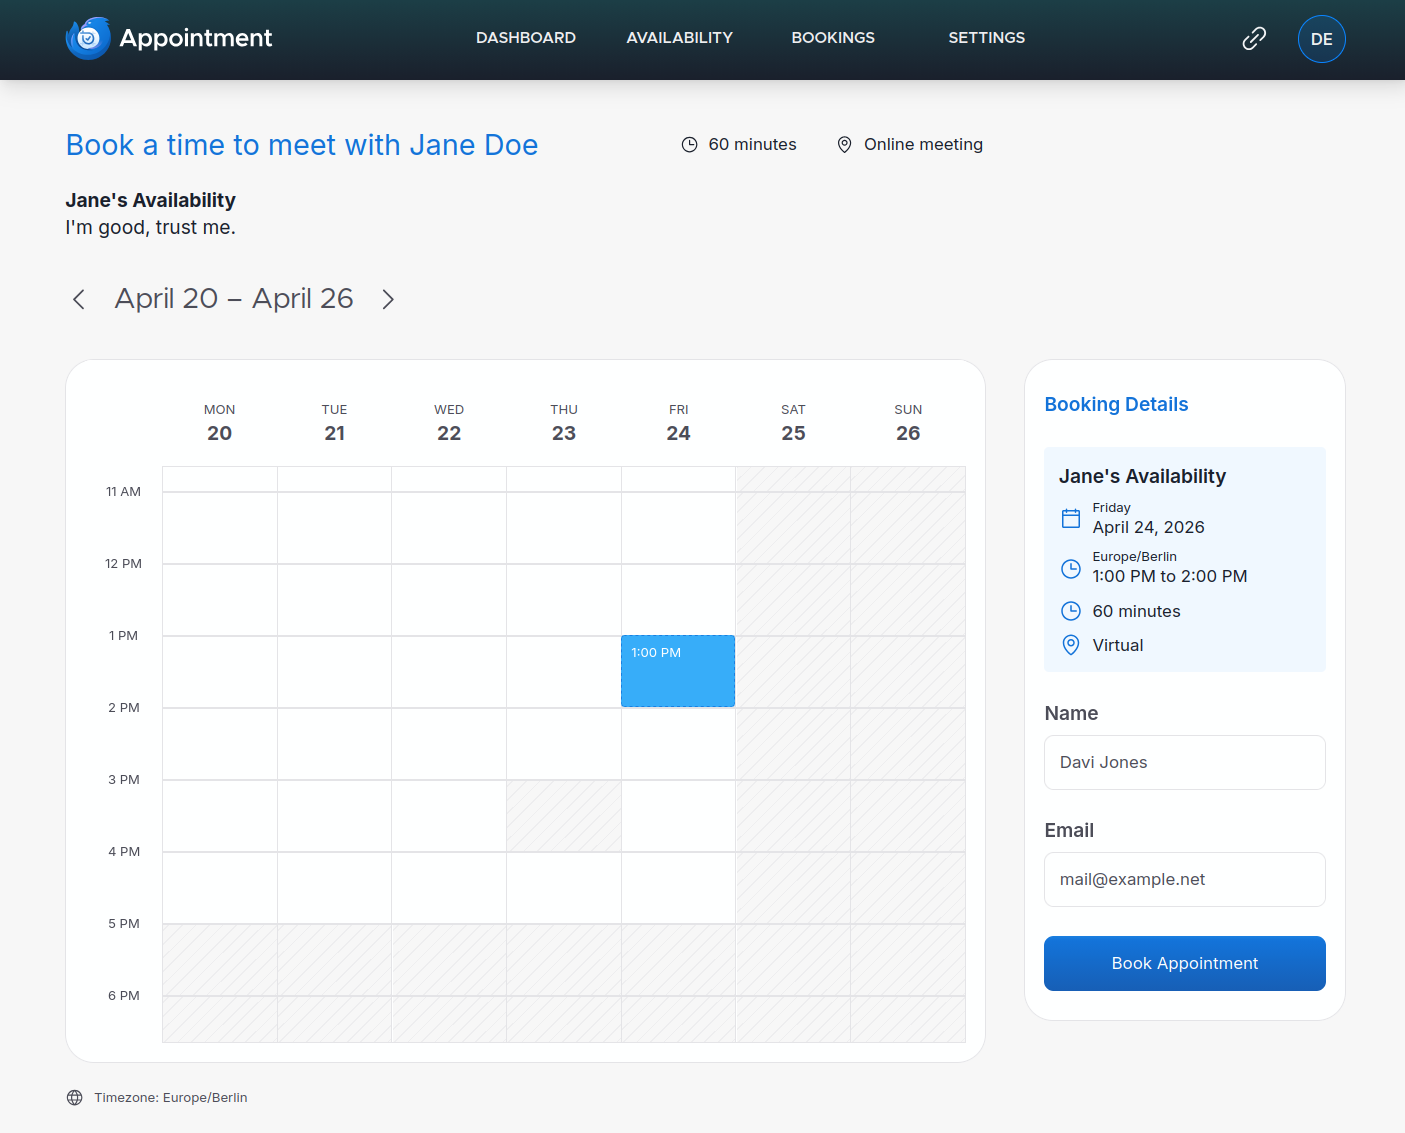
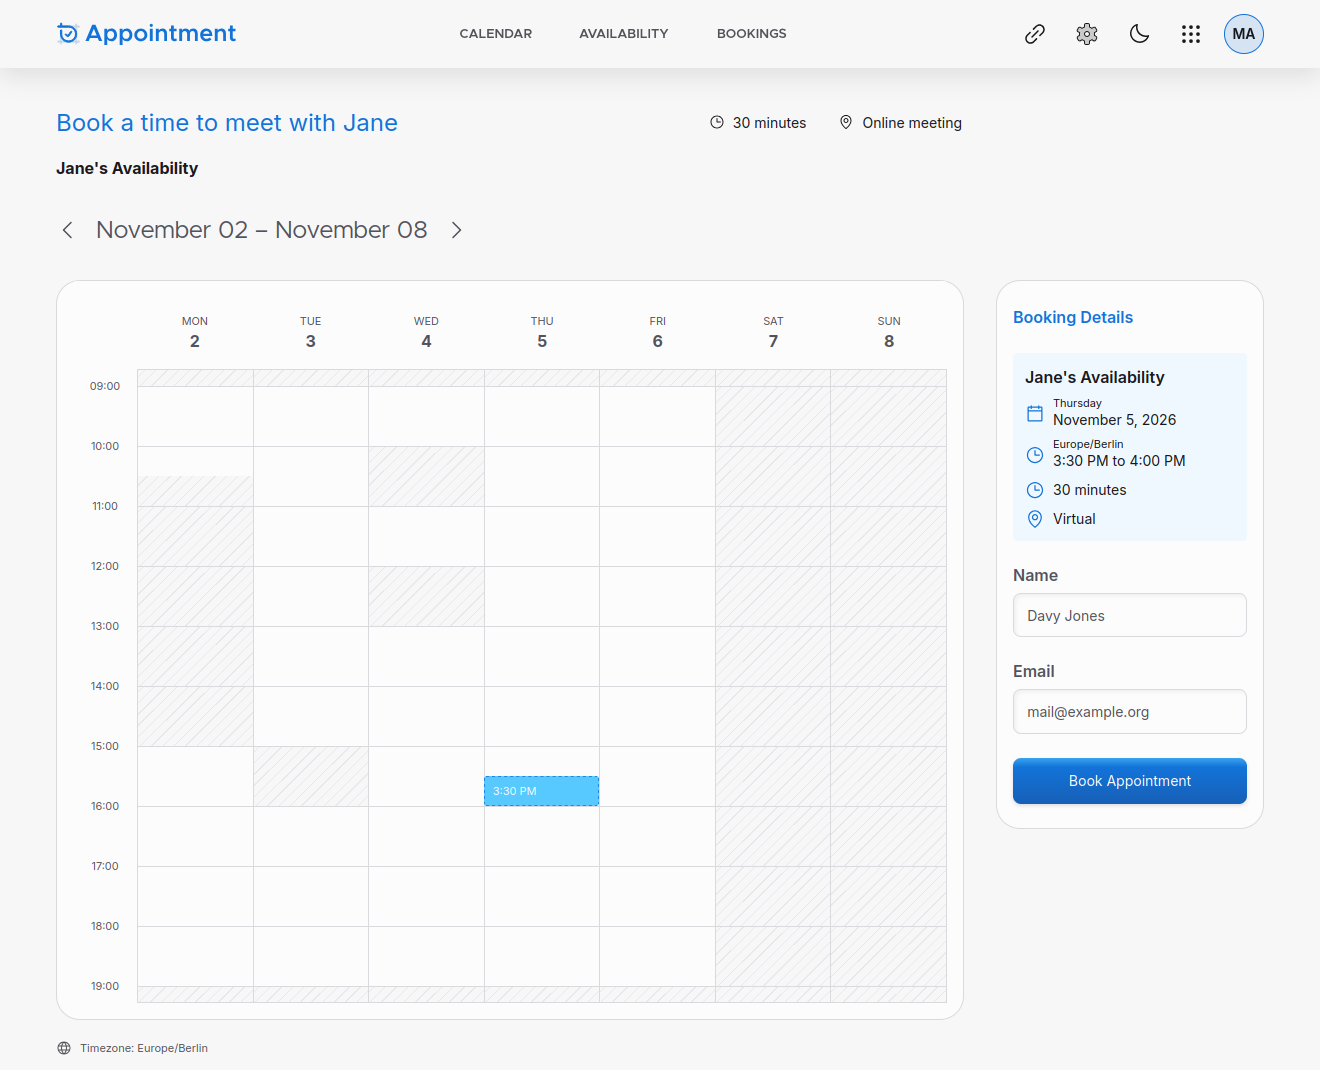
Update application screenshots (#1872)
* 💚 Replace old with current screenshots

* 📜 Update README

* 🧹 Fix README linting warnings

* 🔨 Fix img alt description

diff --git a/README.md b/README.md
@@ -4,9 +4,9 @@ Invite others to grab times on your calendar. Choose a date. Make appointments a
 
 ## Screenshots
 
-The bookers page for attendees and the dashboard for subscribers:
+The bookers page for attendees and the calendar for subscribers:
 
-<img width="49%" alt="Thunderbird Appointment Bookers Page" src="docs/screenshots/appointment_bookers_page.png" /> <img width="49%" alt="Thunderbird Appointment Dashboard" src="docs/screenshots/appointment_dashboard.png" />
+<img width="49%" alt="Thunderbird Appointment Bookers Page" src="docs/screenshots/appointment_bookers_page.png" /> <img width="49%" alt="Thunderbird Appointment Calendar" src="docs/screenshots/appointment_calendar.png" />
 
 Availability setup, managing bookings and general settings:
 
@@ -24,28 +24,27 @@ Using Docker is the recommended and for now the only supported method of buildin
 
 1. Get the application files and create your `.env` files from the examples:
 
-    ```bash
-    git clone https://github.com/thunderbird/appointment
-    cd appointment
-    cp backend/.env.example backend/.env
-    cp frontend/.env.example frontend/.env
-    ```
+   ```bash
+   git clone https://github.com/thunderbird/appointment
+   cd appointment
+   cp backend/.env.example backend/.env
+   cp frontend/.env.example frontend/.env
+   ```
 
 2. Make sure, that the `backend/.env` file contains `APP_ALLOW_FIRST_TIME_REGISTER=True`. This will enable the creation of your first admin user. If you want to be able to access admin-only pages, add your account's email address to the `APP_ADMIN_ALLOW_LIST` env variable.
 
 3. Build and run the service in docker:
 
-    ```bash
-    docker-compose up -d --build
-    ```
+   ```bash
+   docker-compose up -d --build
+   ```
 
-    This will create and start 5 different containers (backend, frontend, postgres, redis and mailpit).
-
-    * Frontend can be accessed via: <http://localhost:8090>
-    * Backend can be accessed via: <http://localhost:5000>
-    * The PostgreSQL database will be accessible via `localhost:5435` with username: password set to `tba`: `abcd%efgh`
-    * OpenAPI docs can be accessed via: <http://localhost:5000/docs> or <http://localhost:5000/redoc>
-    * Mailpit docs can be accessed via: <http://localhost:8026>
+   This will create and start 5 different containers (backend, frontend, postgres, redis and mailpit).
+   - Frontend can be accessed via: <http://localhost:8090>
+   - Backend can be accessed via: <http://localhost:5000>
+   - The PostgreSQL database will be accessible via `localhost:5435` with username: password set to `tba`: `abcd%efgh`
+   - OpenAPI docs can be accessed via: <http://localhost:5000/docs> or <http://localhost:5000/redoc>
+   - Mailpit docs can be accessed via: <http://localhost:8026>
 
 4. Check if all containers are running. On first-run the database will initialize, and a first time setup command will be triggered (going forward database migrations will automatically run on `docker-compose up`). Check if the database contains tables, e.g. the `subscriber` table (still empty at this point).
 
@@ -64,9 +63,9 @@ Contributions are very welcome. Please lint/format code before creating PRs.
 
 Check out the project's respective readmes:
 
-* [Backend Readme](backend/README.md)
-* [Frontend Readme](frontend/README.md)
-* [E2E Tests Readme](test/e2e/README.md)
+- [Backend Readme](backend/README.md)
+- [Frontend Readme](frontend/README.md)
+- [E2E Tests Readme](test/e2e/README.md)
 
 ### Localization
 
